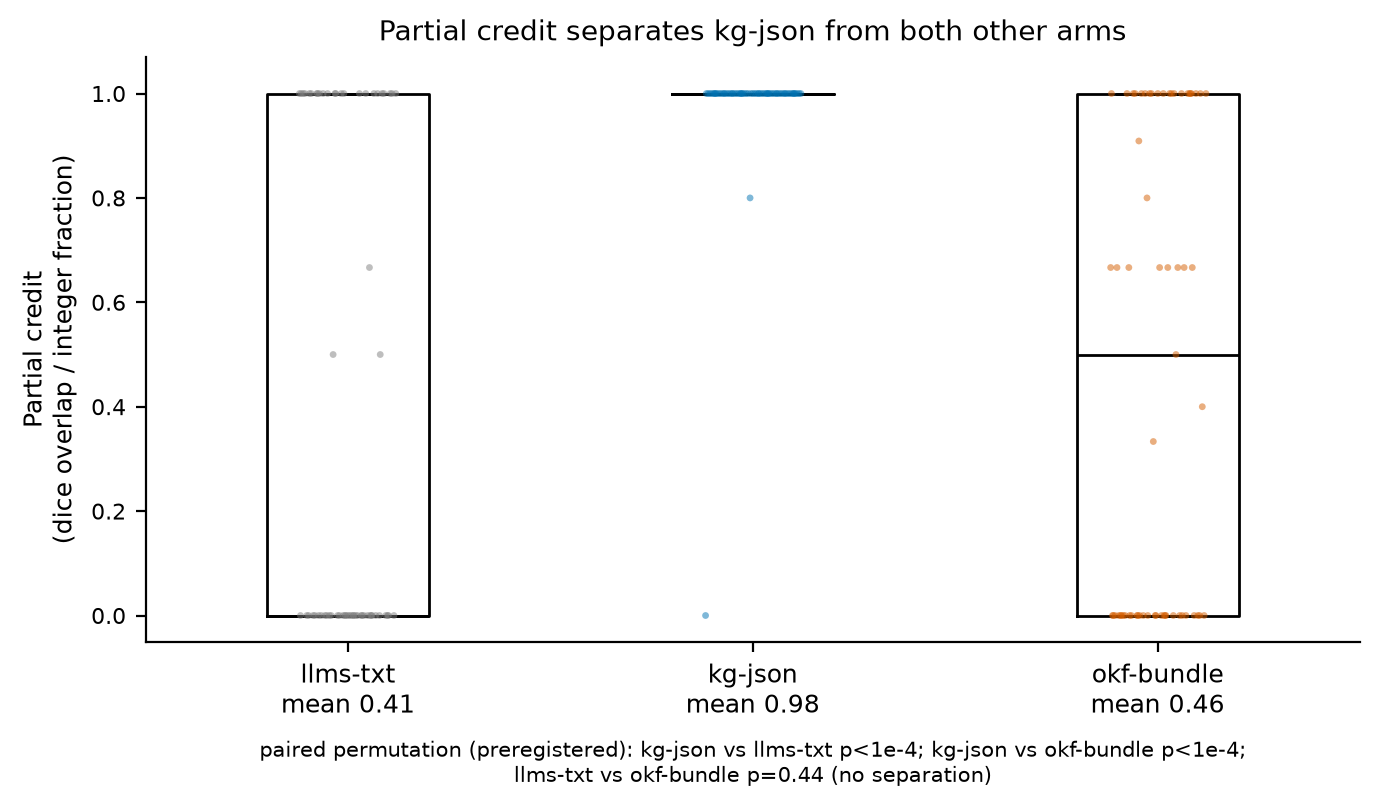
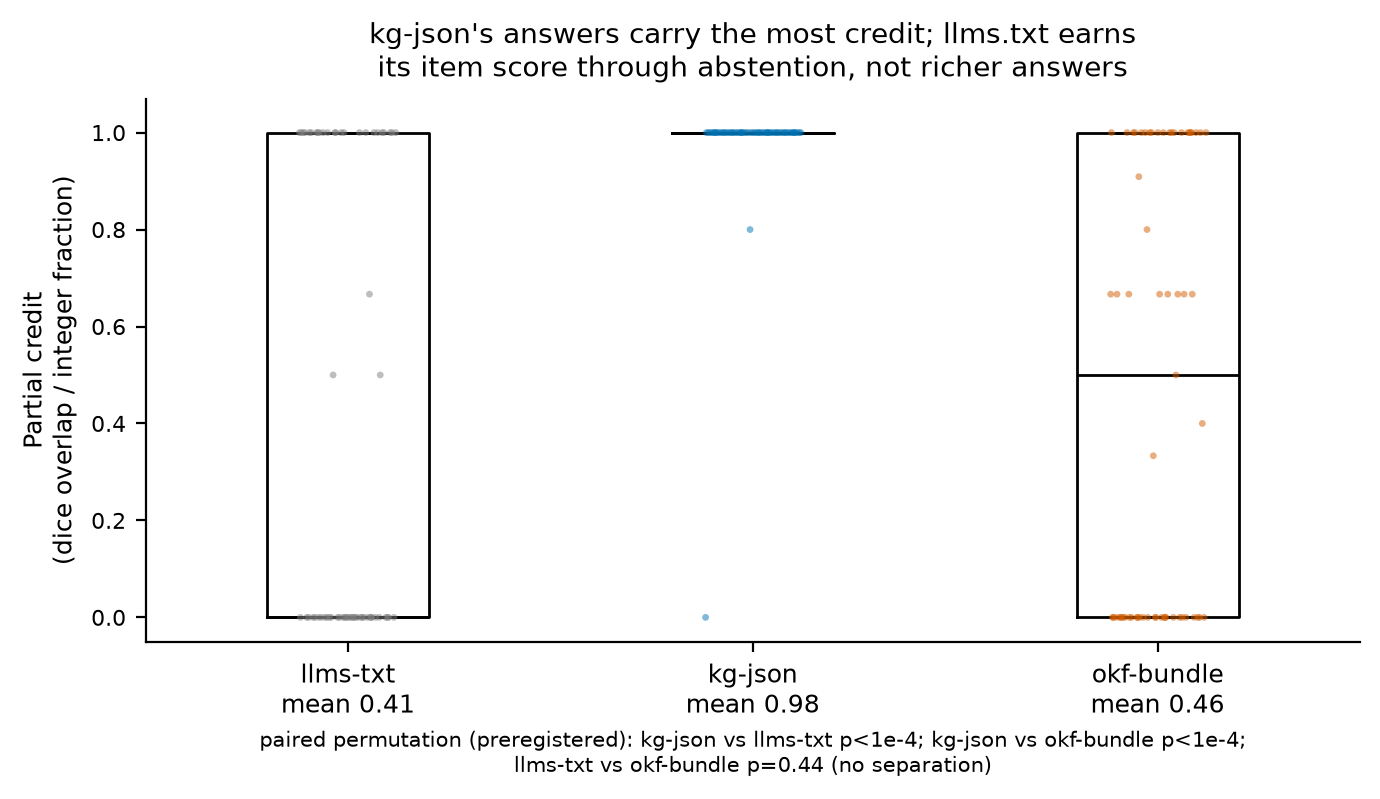
docs(figures): state figure 2 takeaway in title and caption

diff --git a/figures/fig2-partial-credit.py b/figures/fig2-partial-credit.py
@@ -68,8 +68,9 @@ def main():
                   fontsize=9)
     ax.tick_params(axis="y", labelsize=8)
     ax.set_ylim(-0.05, 1.07)
-    ax.set_title("Partial credit separates kg-json from both other arms",
-                 fontsize=10)
+    ax.set_title("kg-json's answers carry the most credit; llms.txt earns\n"
+                 "its item score through abstention, not richer answers",
+                 fontsize=10, pad=8)
     ax.text(0.5, -0.24, ANNOTATION, transform=ax.transAxes, ha="center",
             fontsize=7.5)
     fig.subplots_adjust(bottom=0.3)

diff --git a/README.md b/README.md
@@ -98,7 +98,7 @@ Figure scripts live in `figures/` and render from committed `results/raw-v2/` re
 
 ![Per-arm partial-credit distributions with the preregistered paired permutation annotation](figures/fig2-partial-credit.png)
 
-*Figure 2: Secondary endpoint. Per-arm partial-credit distributions (jittered strip over box plot; dice overlap on set-valued families, integer fraction on F2) with the sealed paired permutation results. kg-json separates from both arms on partial credit; llms.txt and okf-bundle do not separate (p = 0.44) despite a 38-point item-score gap.*
+*Figure 2: Secondary endpoint, and why it exists: the primary endpoint cannot separate llms.txt from kg-json, so this asks whether kg-json's answers are actually richer. Paired permutation on partial credit (jittered strip over box plot; dice overlap on set-valued families, integer fraction on F2): kg-json separates from both arms (p < 1e-4); llms.txt and okf-bundle do not (p = 0.44) despite a 38-point item-score gap. The distributions show the mechanism: llms.txt piles up at 0 (correct abstentions) and 1, okf-bundle smears across the middle on partial extraction, so the composite item score mixes the two and must be read with Figure 3's conditional accuracies.*
 
 ![Conditional extraction and abstention accuracy per arm](figures/fig3-conditional-accuracy.png)
 
